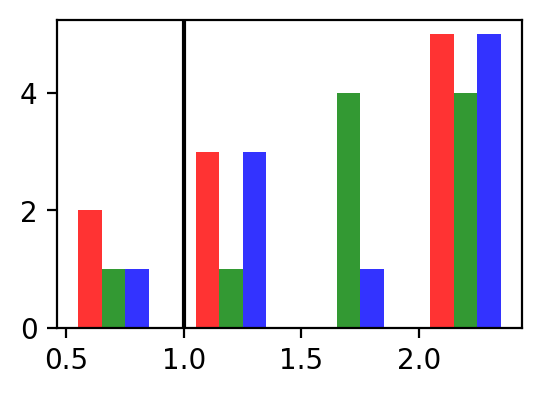
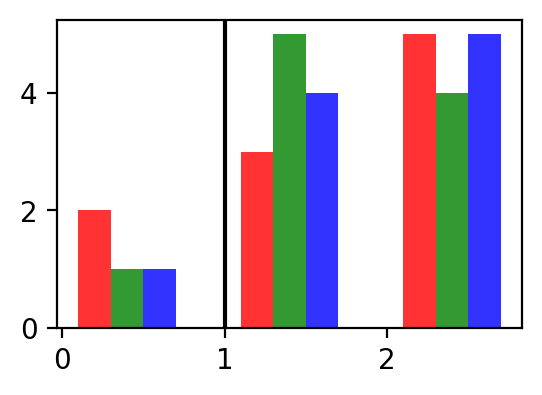
update hist fig, bins = [0,1,2,inf]

diff --git a/run_massive_test.py b/run_massive_test.py
@@ -440,14 +440,14 @@ def main_compare_cvg_iters():
 
   plt.figure(figsize=(3,2))
 
-  count, _ = np.histogram( mat_cost_data[:,1] /mat_cost_data[:,0], bins=[0.5, 1, 1.5, 2.0, np.inf] )
-  plt.bar(np.array([0.5, 1, 1.5, 2.0])+0.1, count, width=0.1, facecolor='r', alpha=0.8)
+  count, _ = np.histogram( mat_cost_data[:,1] /mat_cost_data[:,0], bins=[0.0, 1, 2.0, np.inf] )
+  plt.bar(np.array([0.0, 1, 2.0])+0.2, count, width=0.2, facecolor='r', alpha=0.8)
 
-  count, _ = np.histogram( mat_cost_data[:,2] /mat_cost_data[:,0], bins=[0.5, 1, 1.5, 2.0, np.inf] )
-  plt.bar(np.array([0.5, 1, 1.5, 2.0])+0.2, count, width=0.1, facecolor='g', alpha=0.8)
+  count, _ = np.histogram( mat_cost_data[:,2] /mat_cost_data[:,0], bins=[0.0, 1, 2.0, np.inf] )
+  plt.bar(np.array([0.0, 1, 2.0])+0.4, count, width=0.2, facecolor='g', alpha=0.8)
 
-  count, _ = np.histogram( mat_cost_data[:,3] /mat_cost_data[:,0], bins=[0.5, 1, 1.5, 2.0, np.inf] )
-  plt.bar(np.array([0.5, 1, 1.5, 2.0])+0.3, count, width=0.1, facecolor='b', alpha=0.8)
+  count, _ = np.histogram( mat_cost_data[:,3] /mat_cost_data[:,0], bins=[0.0, 1, 2.0, np.inf] )
+  plt.bar(np.array([0.0, 1, 2.0])+0.6, count, width=0.2, facecolor='b', alpha=0.8)
 
   plt.axvline(x = 1, color = 'k')
 
@@ -491,10 +491,10 @@ def main_test_pwdc():
 
 if __name__ == "__main__":
 
-  main_test_pwdc()
-  main_test_wghA()
-  main_test_naiveInit()
+  # main_test_pwdc()
+  # main_test_wghA()
+  # main_test_naiveInit()
 
-  main_plot_pwdc()
-  main_plot_cvg_iters()
+  # main_plot_pwdc()
+  # main_plot_cvg_iters()
   main_compare_cvg_iters()
